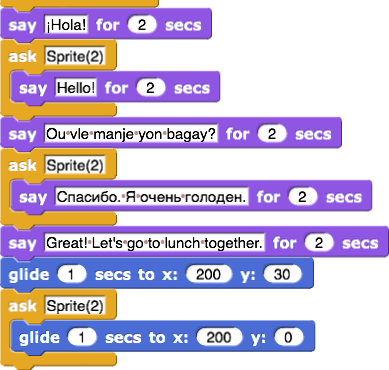
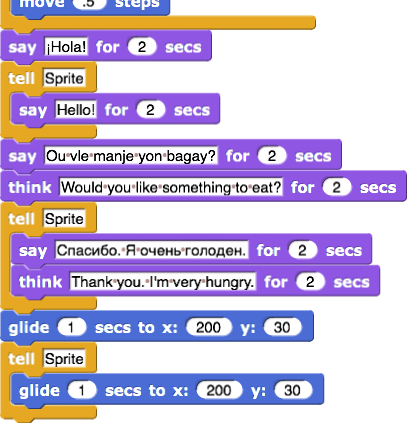
U1L2 activity 2

diff --git a/cur/programming/1-introduction/2-introduction/2-sprites-having-conversation.html b/cur/programming/1-introduction/2-introduction/2-sprites-having-conversation.html
@@ -67,24 +67,41 @@
               You may want each move to be even less than 1 step so that Sprite(2) doesn't catch Sprite too quickly.</li>
               <li>Test your program! Test it a few times. <img class="imageRight" src="/bjc-r/img/icons/pair-programming-swap-mini.png" alt="Pair Programming Swap" title="Pair Programming Swap" />  </li>
               <li>Right now, when they do meet, they just stop. <br />
-              You can make them have a conversation by adding code like this to Sprite's script. <br />
+              Make them have a conversation when they stop. <br />
+              You can do that by adding code like this to Sprite(2)'s script. <div class="sidenote">This code leaves <code>Sprite(2)</code> in charge of <code>Sprite</code>. Sprite(2) does things itself, and also tells Sprite what to do and when to do it. </div> <br />
               Make up your own dialogue. You can use any language you can type. <br />
               <img src="/bjc-r/img/1-introduction/SimpleDialogue-Going-to-lunch.png" alt="Simple dialogue about going to lunch"> 
               </li>
           </ol>
               </div>
-              
               Save your two-sprite project.<div class="saveAs"><span class="text">"U1L2-SpriteChaseConversation"</span><img src="/bjc-r/img/icons/save-this-as.png" alt="Save your work as U1L2-SpriteChaseConversation" title="Save your work as U1L2-SpriteChaseConversation" /></div>
+    <div class="takeItFurther">
+      <p> You can make this more interesting in lots of ways, if you like.</p> 
+          <ol type="A">
+              <li>You can give the sprites costumes. You can even use a photograph or picture from the Internet by dragging the picture into the costume area for that sprite. If the picture you choose is too big, set its size <img src="/bjc-r/img/blocks/set-size.png" alt="set size"> to something less than 100%. </li>
+              <li>You can make a dialogue about school or home or work or play. </li>
+              <li>You can add a third sprite and have it do something, too.</li>
+              <li>You can even change the background on the stage.
+                <img src="/bjc-r/img/1-introduction/change-background.gif" alt="change the background on the stage">
+          </ol>
+	  </div>
+<img class="imageLeft" src="/bjc-r/img/icons/save-mini.png" alt="Save Your Work" title="Save Your Work" />
               
               <div class="newProject"><span class="text">"U1L2-SpriteOrbit"</span><img src="/bjc-r/img/icons/new-project-called.png" alt="Create a new project called U1L1-Name" title="Create a new project called U1L1-Name" /></div>
 
 
-NOT EDITED FROM HERE ON.
-
 <div class="forYouToDo">
     <ol start="10">
-        
-				
+	<li><strong>Analyze and predict:</strong> How are the behaviors of these four scripts the same? How are they different? <br /> 
+    <img src="/bjc-r/img/1-introduction/Forever(repeat10(move10)-turn90).png"  alt="Forever(repeat10(move10)-turn90)"> 
+    <img src="/bjc-r/img/1-introduction/Forever(move100-turn90).png" alt="Forever(move100-turn90)"><img src="/bjc-r/img/1-introduction/Forever(repeat100(move1)-turn90).png"  alt="Forever(repeat100(move1)-turn90)">
+    <img src="/bjc-r/img/1-introduction/Forever(repeat20(move5)-turn90).png" alt="Forever(repeat20(move5)-turn90)"> </li>	
+	<li></li>	
+	<li></li>	
+	<li></li>	
+	<li></li>	
+	<li></li>	
+	<li></li>			
 <li>
                     Create this two-block script in the scripting area. Click on it a several times to see what it does.<br />
                     <img class="indent" style="height:4em;" src="/bjc-r/img/1-introduction/move-turn.png" alt="move 10 steps, turn right 15 degrees" title="move 10 steps, turn right 15 degrees" />
